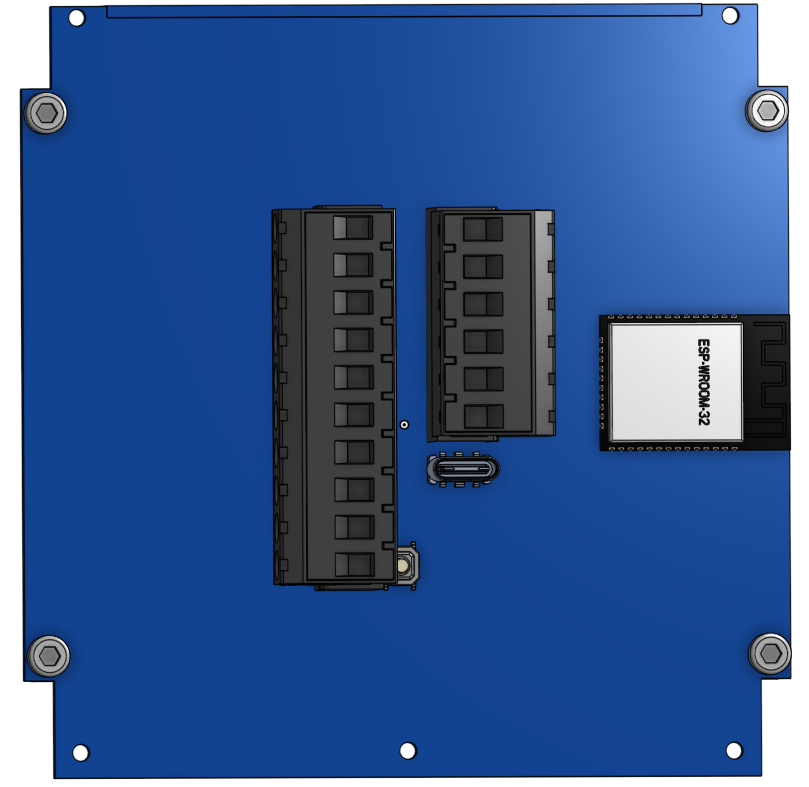
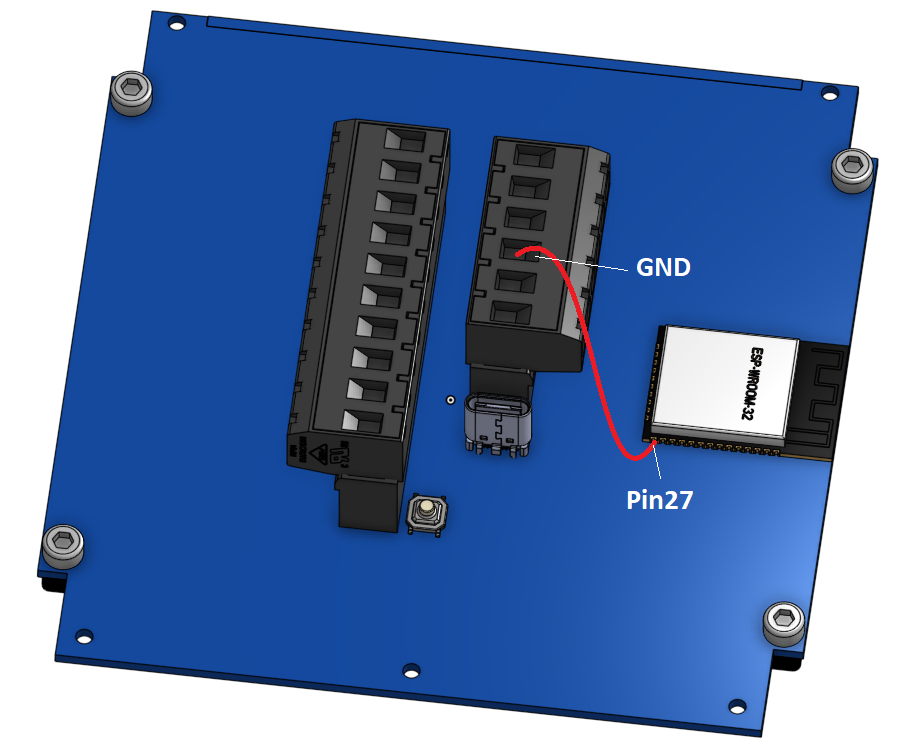
Changes

diff --git a/docs/programming/webflashtool.rst b/docs/programming/webflashtool.rst
@@ -1,19 +1,28 @@
 Web-Flashtool
 =============
 
-Mit dem Web-Flashtool kann die Firmware für das OBP60 mit einem Webbrowser über eine USB-Verbindung in das Gerät übertragen werden. Dazu wird das OBP60 über die USB-C-Buchse mit einem PC oder Laptop verbunden und der **Chrome-** oder **Edge-Webbrowser** gestartet. Im OBP60 ist ein USB-Seriell-Konverter integriert, über den die Datenübertragung durchgeführt wird. Mit dem USB-C-Kabel lässt sich nur die Firmware übertragen. Ein betrieb des Gerätes ist damit nicht möglich. 
+Mit dem Web-Flashtool kann die Firmware für das OBP60 mit einem Webbrowser über eine USB-Verbindung in das Gerät übertragen werden. Dazu wird das OBP60 über die USB-C-Buchse mit einem PC oder Laptop verbunden und der **Chrome-** oder **Edge-Webbrowser** gestartet. Im OBP60 ist ein USB-Seriell-Konverter integriert, über den die Datenübertragung durchgeführt wird. Mit dem USB-C-Kabel lässt sich nur die Firmware übertragen. Ein Betrieb des Gerätes ist damit nicht möglich. 
 
 .. note::
 	Andere Webbrowser als Chrome oder Edge werden derzeit nicht unterstützt, da die Funktionalität für den Zugriff auf eine serielle Schnittstelle in anderen Webbrowsern nicht implementiert ist.
 	
-Für den Flash-Vorgang benötigen Sie folgende Materialien:
-* OBP60
-* USB-C zu USB-A Verbindungskabel < 1,5m
-* Drahtbrücke 5 cm
-* PC mit Chrome- oder Edge-Browser
+Für den Flash-Vorgang benötigt man folgende Materialien:
+	* OBP60
+	* USB-C zu USB-A Verbindungskabel < 1,5m
+	* Drahtbrücke 5 cm
+	* PC mit Chrome- oder Edge-Browser
 
 **1. OBP60 in den Flash-Modus setzen**
-	Öffnen Sie die hintere Gehäusreabdeckung und Stellen Sie mit der Drahtbrücke eine Verbindung von ``GND`` (CN2) zum ``Pin 27`` (ESP32-S3) her. Dann verbinden Sie das OBP60 mit dem PC über das USB-Verbindungskabel. Sobald sie USB-Schnittstelle erkannt wird, erfolgt eine Tonausgabe auf dem PC. Sie können dann die Drahtbrücke zwischen GND und Pin 27 trennen. Der ESP32-S3 befindet sich jetzt im Flash-Modus.
+	Öffnen Sie die hintere Gehäusreabdeckung und Stellen Sie mit der Drahtbrücke eine Verbindung von ``GND`` (CN2) zum ``Pin 27`` (ESP32-S3) her. Dann verbinden Sie das OBP60 mit dem PC über das USB-Verbindungskabel. Sobald sie USB-Schnittstelle erkannt wird, erfolgt eine Tonausgabe auf dem PC. Sie können dann die Drahtbrücke zwischen ``GND`` und ``Pin 27`` trennen. Der ESP32-S3 befindet sich jetzt im Flash-Modus.
+	
+	.. image:: ../pics/ESP32-S3_Pin27.png
+	   :scale: 50%
+	Abb.: Pin27 am OBP60
+	
+	.. image:: ../pics/Bridge_GND-Pin27.png
+	   :scale: 50%
+	Abb.: Brücke zwischen ``GND`` und ``Pin 27``
+	
 	
 **2. Flashtool starten**
 
@@ -32,7 +41,7 @@ Für den Flash-Vorgang benötigen Sie folgende Materialien:
 
 	.. image:: ../pics/Web_Flasher2.png
 	   :scale: 50%
-	Abb.: Auswahgl der Schnittstelle
+	Abb.: Auswahl der Schnittstelle
 
 .. note::
 	Beachten Sie, dass durchaus noch andere serielle Schnittstellen im System benutzt werden. Wählen Sie die Schnittstelle aus, die nach dem Anstecken des OBP60 an den USB-Port im System neu auftaucht. Bereits bestehende Schnittstellen dürfen Sie nicht nutzen, sie werden bereits anderweitig verwendet.
